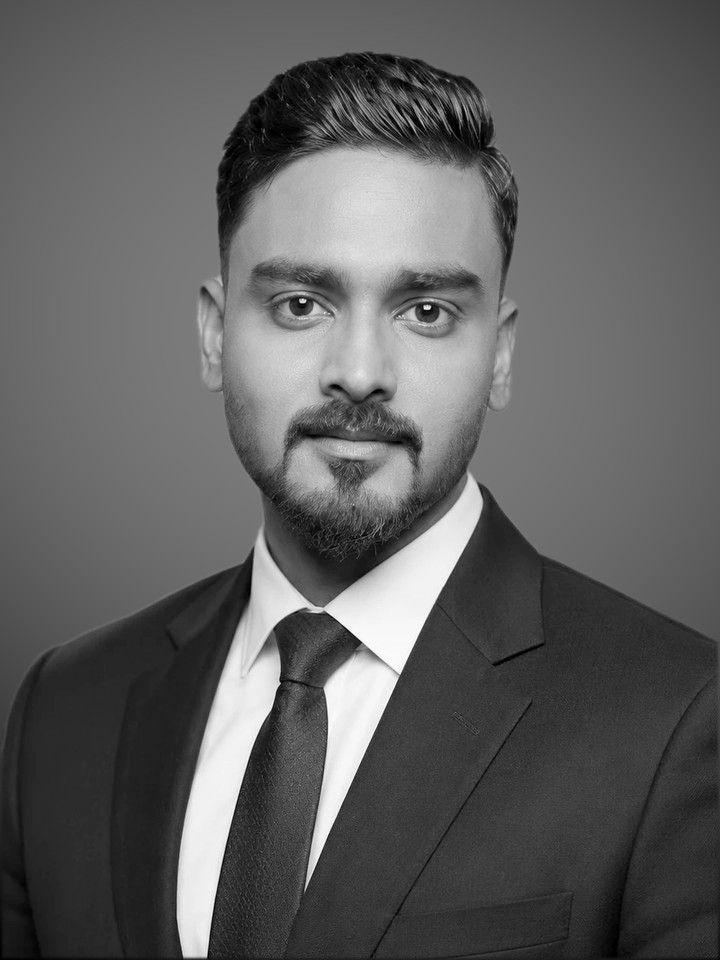
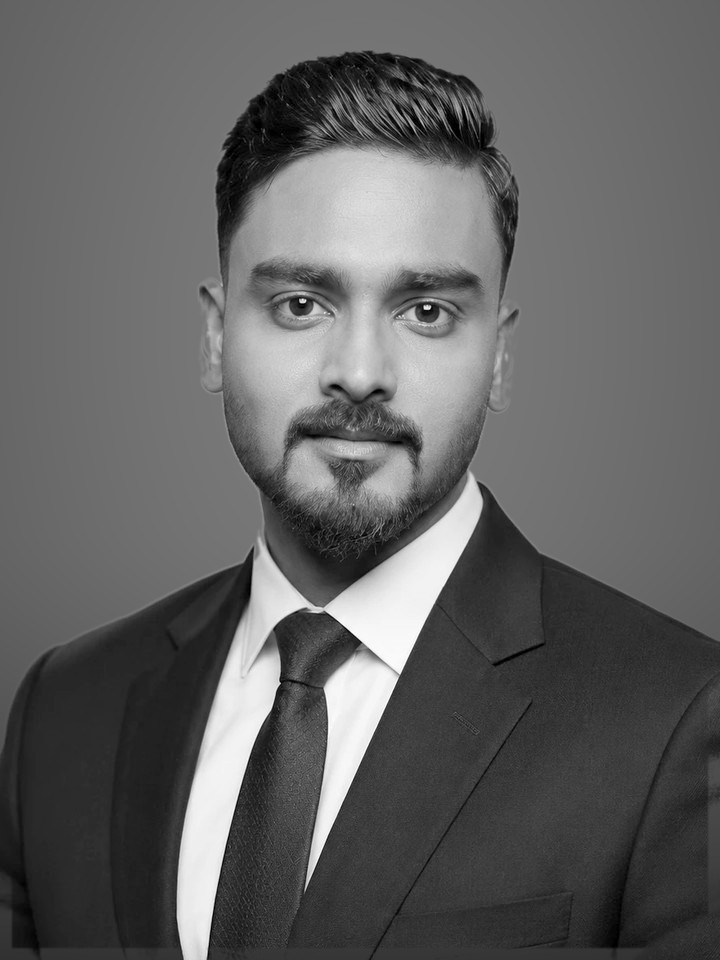
Take the halo off the portraits
Two cards showed it worst — Amit's and Sanjay's, where the head fills
most of the frame — a bright ring hugging the silhouette.

Two causes. The person mask runs a few pixels wide of the person, and on
a backdrop lit from behind those pixels are bright; composited as
subject they ring the cut-out. The edge is now refined against each
photograph's own background: fit it, and in a band either side of the
mask treat a pixel that still matches it as background. Hair is nowhere
near the backdrop's value, so it survives; the fringe does not.

And the backdrop itself was the shoot's own falloff, fitted. Its hotspot
is tight, and at these head sizes it sat directly behind the head, which
reads as a glow however clean the cut. It is written out now instead: a
broad centre, a gentle fall to the corners, the foot carried down for
the caption. Every portrait and the placeholder tile use it.

Rebuilt from the originals, not from the shipped files — this pass over
its own output would compound.

diff --git a/app/globals.css b/app/globals.css
@@ -2633,8 +2633,8 @@ html.is-locked body{overflow:hidden!important;height:100%!important;
    the studio backdrop the portraits were shot against, so the empty card sits
    in the row instead of glaring out of it. */
 .tr-init{position:absolute;inset:0;display:grid;place-items:center;
-  background:radial-gradient(115% 80% at 50% 33%,
-    #7f7f7f 0%,#646464 45%,#4c4c4c 72%,#101010 100%);
+  background:linear-gradient(to bottom,rgba(0,0,0,0) 55%,rgba(0,0,0,.45) 100%),
+    radial-gradient(112% 92% at 50% 34%,#7c7c7c 0%,#727272 40%,#676767 72%,#636363 100%);
   color:#C2C7CC;font-weight:300;font-size:2.4444rem;letter-spacing:.02em}
 .tr-shot img{object-fit:cover;filter:grayscale(1) contrast(1.04);
   transition:transform .6s var(--ease-out)}

diff --git a/scripts/portraits/ground.py b/scripts/portraits/ground.py
@@ -1,16 +1,24 @@
-"""Put an odd-one-out portrait on the set's own backdrop.
+"""Put a portrait on the set's one backdrop.
 
-Sumit was shot on a white sweep and Asif against a near-black wall; every other
-card is the same soft grey spotlight. Vision's person segmentation gives the
-silhouette (a threshold matte ate Asif's hair and glasses), and the subject is
-composited onto the fitted plate. The mask is pulled in a couple of pixels so no
-rim of the old backdrop survives at the edge.
+Vision's person segmentation gives the silhouette — a threshold matte ate Asif's
+hair and glasses, because his wall and his suit sit in the same values. The mask
+runs a few pixels wide of the person, though, and those pixels are the
+photograph's OWN background: composited as subject they leave a halo hugging the
+silhouette, bright on the shots that were lit from behind.
+
+So the edge is refined against the original: a quadratic is fitted to the
+photograph's own background, and in a band either side of the mask a pixel that
+still matches that background is treated as background. Hair reads as hair — it
+is nowhere near the backdrop's value — while the fringe drops out.
 """
 from PIL import Image, ImageFilter
 import numpy as np, subprocess, os, sys
 from scipy import ndimage
 D = os.path.dirname(os.path.abspath(__file__))
-from plate import surface
+from plate import surface, fit, plate_image
+
+BAND = 12      # px either side of the mask edge that get judged against the backdrop
+TOL = 16       # grey levels: below this a pixel is the backdrop, at twice it is the person
 
 def person_mask(path):
     png = f'{D}/.mask.png'
@@ -19,17 +27,32 @@ def person_mask(path):
         raise RuntimeError(f'no person found in {path}: {r.stdout}{r.stderr}')
     return np.asarray(Image.open(png).convert('L'), dtype=float) / 255
 
-def reground(path, out, erode=2, feather=1.2):
+def own_background(a, outside):
+    """Fit the photograph's own backdrop from the pixels well clear of the person."""
+    h, w = a.shape
+    ys, xs = np.mgrid[0:h, 0:w]
+    x, y = xs / w, ys / h
+    c = fit(x[outside], y[outside], a[outside])
+    return surface(c, w, h)
+
+def alpha_for(a, m, band=BAND, tol=TOL):
+    inner = ndimage.binary_erosion(m > 0.5, iterations=band)
+    outer = ndimage.binary_dilation(m > 0.5, iterations=band)
+    bg = own_background(a, ~outer)
+    edge = np.clip((np.abs(a - bg) - tol) / tol, 0, 1)
+    return np.where(inner, 1.0, np.where(outer, edge, 0.0))
+
+def reground(path, out, feather=1.0):
     a = np.asarray(Image.open(path).convert('L'), dtype=float)
-    m = person_mask(path)
-    m = ndimage.binary_erosion(m > 0.5, iterations=erode).astype(float)
-    m = np.asarray(Image.fromarray((m * 255).astype('uint8')).filter(
+    al = alpha_for(a, person_mask(path))
+    al = np.asarray(Image.fromarray((al * 255).astype('uint8')).filter(
         ImageFilter.GaussianBlur(feather)), dtype=float) / 255
-    plate = surface(np.load(f'{D}/plate.npy'), *a.shape[::-1])
-    res = a * m + plate * (1 - m)
+    plate = plate_image(*a.shape[::-1])
+    res = a * al + plate * (1 - al)
     Image.fromarray(np.clip(res, 0, 255).astype('uint8')).save(out, quality=90, optimize=True, progressive=True)
-    print(f'{os.path.basename(out):22} subject {m.mean()*100:.1f}% of frame')
+    print(f'{os.path.basename(out):24} subject {al.mean()*100:.1f}% of frame')
 
 if __name__ == '__main__':
     for who in sys.argv[1:]:
-        reground(f'{D}/out/{who}.jpg', f'{D}/out/{who}.jpg')
+        p = who if os.path.sep in who else f'{D}/out/{who}.jpg'
+        reground(p, p)

diff --git a/scripts/portraits/plate.py b/scripts/portraits/plate.py
@@ -1,5 +1,14 @@
-"""Fit the studio backdrop of the new shots as a smooth 2D surface, so the two
-odd portraits can be put on the same ground."""
+"""The set's one backdrop, and the fitting used to read a photograph's own.
+
+The backdrop the portraits are composited onto is written out here rather than
+fitted: the 2026 shoot's own falloff is steep, and at the head sizes these cards
+crop to, its hotspot sits right behind the head and reads as a halo. This is the
+same light, opened up — a broad centre, a gentle fall to the corners, and the
+bottom carried down for the caption to sit on.
+
+`fit`/`surface` stay: ground.py fits a quadratic to each PHOTOGRAPH's own
+background to decide what is backdrop at the silhouette's edge.
+"""
 from PIL import Image
 import numpy as np, os
 D = os.path.dirname(os.path.abspath(__file__))
@@ -25,15 +34,33 @@ def surface(c, w, h):
     x, y = xs / w, ys / h
     return c[0] + c[1] * x + c[2] * y + c[3] * x * x + c[4] * x * y + c[5] * y * y
 
+# centre, spread and depth of the backdrop, in fractions of the frame
+CENTRE = (0.50, 0.34)
+SIGMA = (0.46, 0.52)
+BASE, AMP = 78.0, 46.0
+FOOT_FROM, FOOT_DEPTH, FOOT_CURVE = 0.55, 0.45, 1.6
+
+def plate_image(w, h):
+    ys, xs = np.mgrid[0:h, 0:w]
+    x, y = xs / w, ys / h
+    cx, cy = CENTRE; sx, sy = SIGMA
+    v = BASE + AMP * np.exp(-(((x - cx) ** 2) / (2 * sx ** 2) + ((y - cy) ** 2) / (2 * sy ** 2)))
+    return v * (1 - FOOT_DEPTH * np.clip((y - FOOT_FROM) / (1 - FOOT_FROM), 0, 1) ** FOOT_CURVE)
+
 if __name__ == '__main__':
+    # Print and draw the backdrop the portraits are composited onto, and, for
+    # comparison, the 2026 shoot's own falloff fitted from three of its frames.
+    s = plate_image(720, 960)
+    at = lambda yy, xx: round(s[int(yy * 959), int(xx * 719)])
+    print('backdrop  behind head', at(.34, .5), ' mid-sides', at(.5, .02), at(.5, .98),
+          ' top corners', at(.02, .02), at(.02, .98), ' foot', at(.99, .5))
+    Image.fromarray(np.clip(s, 0, 255).astype('uint8')).save(f'{D}/plate.png')
+
     X, Y, V = [], [], []
-    for n in ('saurabh-aggarwal', 'amit-garg', 'dhawal-parvatikar'):   # one backdrop, three shots
+    for n in ('saurabh-aggarwal', 'amit-garg', 'dhawal-parvatikar'):
         x, y, v = bg_samples(Image.open(f'{D}/out/{n}.jpg'))
         X.append(x); Y.append(y); V.append(v)
-    c = fit(np.concatenate(X), np.concatenate(Y), np.concatenate(V))
-    np.save(f'{D}/plate.npy', c)
-    s = surface(c, 720, 960)
-    print('coeffs', np.round(c, 1))
-    print('plate corners TL/TR/BL/BR', [round(s[int(yy*959), int(xx*719)]) for yy, xx in ((.02,.02),(.02,.98),(.98,.02),(.98,.98))])
-    print('plate mid-sides L/R, behind head', round(s[480, 20]), round(s[480, 700]), round(s[300, 360]))
-    Image.fromarray(np.clip(s, 0, 255).astype('uint8')).save(f'{D}/plate.png')
+    t = surface(fit(np.concatenate(X), np.concatenate(Y), np.concatenate(V)), 720, 960)
+    at = lambda yy, xx: round(t[int(yy * 959), int(xx * 719)])
+    print('the shoot behind head', at(.34, .5), ' mid-sides', at(.5, .02), at(.5, .98),
+          ' top corners', at(.02, .02), at(.02, .98), ' foot', at(.99, .5))

diff --git a/scripts/portraits/build.py b/scripts/portraits/build.py
@@ -11,18 +11,17 @@ REPO = os.path.dirname(os.path.dirname(os.path.dirname(os.path.abspath(__file__)
 OUT = os.path.dirname(os.path.abspath(__file__)) + '/out'
 os.makedirs(OUT, exist_ok=True)
 
-# person -> source file, as of the last run. The two REPO paths were the
-# pre-2026 originals; those files have since been replaced by this script's own
-# output, so re-running against them would process an already-processed image —
-# take the originals out of git history (before the "one set" commit) instead.
+# person -> the ORIGINAL photograph, never this script's own output. The
+# pre-2026 originals (Asif and the two founders) are in git history, before the
+# "Put every portrait on one backdrop" commit.
 PEOPLE = [
-    ('sumit-chatterjee',  f'{SRC}/18.jpg'),
-    ('ramesh-yadav',      f'{SRC}/15.webp'),
-    ('amit-garg',         f'{SRC}/14.webp'),
-    ('dhawal-parvatikar', f'{SRC}/16.webp'),
-    ('asif-masani',       f'{REPO}/public/team/asif-masani.jpg'),
-    ('sanjay-rikhy',      f'{SRC}/17.webp'),
-    ('saurabh-aggarwal',  f'{SRC}/13.webp'),
+    ('sumit-chatterjee',  f'{SRC}/sumit-chatterjee.jpg'),
+    ('ramesh-yadav',      f'{SRC}/ramesh-yadav.webp'),
+    ('amit-garg',         f'{SRC}/amit-garg.webp'),
+    ('dhawal-parvatikar', f'{SRC}/dhawal-parvatikar.webp'),
+    ('asif-masani',       f'{SRC}/asif-masani.jpg'),
+    ('sanjay-rikhy',      f'{SRC}/sanjay-rikhy.webp'),
+    ('saurabh-aggarwal',  f'{SRC}/saurabh-aggarwal.webp'),
 ]
 FACE_FRAC = 0.34   # face-box height as a share of the frame
 FACE_Y    = 0.40   # where the face-box centre sits down the frame

diff --git a/scripts/portraits/README.md b/scripts/portraits/README.md
@@ -7,8 +7,8 @@ and one studio backdrop.
 ```
 swiftc -O faces.swift -o faces          # Vision: face boxes, for the crop
 swiftc -O segment.swift -o segment      # Vision: person mask, for the backdrop
-python3 build.py                        # crop + greyscale + levels -> out/
-python3 ground.py <name> [<name>…]      # put a portrait on the fitted backdrop
+PORTRAIT_SRC=<originals> python3 build.py     # crop + greyscale + levels -> out/
+python3 harmony.py out/*.jpg                  # one exposure, then onto the backdrop
 ```
 
 `build.py` holds the person → source-file list and the two numbers that set the
@@ -16,15 +16,26 @@ framing: `FACE_FRAC` (the face box as a share of the frame) and `FACE_Y` (where
 it sits down the frame). A source tighter than `FACE_FRAC` is left at its own
 framing — the crop can only ever go in, never out.
 
-`plate.npy` is the backdrop: a quadratic fitted to the background of the 2026
-shoot (`plate.py` refits it). `ground.py` is for the odd ones out — Sumit was
-shot on a white sweep, Asif against a near-black wall. A threshold matte ate
-Asif's hair and glasses, so the silhouette comes from Vision's person
-segmentation instead.
+`plate.py` holds the backdrop every portrait is composited onto. It is written
+out, not fitted: the shoot's own falloff is steep, and at the head sizes these
+cards crop to its hotspot sits right behind the head and reads as a halo. Run
+`python3 plate.py` to print both and draw the one in use.
+
+`ground.py` does the compositing. Vision's person segmentation gives the
+silhouette — a threshold matte ate Asif's hair and glasses, since his wall and
+his suit sit in the same values — and the edge is then refined against the
+photograph's own background, fitted as a quadratic: a pixel near the edge that
+still matches that background is background, however the mask called it. Without
+that step the mask carries a few pixels of the original backdrop and leaves a
+halo hugging the silhouette.
+
+`harmony.py` is the exposure pass: a gamma that moves each face's median toward
+the set's, clamped, so a dark frame moves most of the way and never all of it.
 
 The `.tr-init` placeholder tile in globals.css is a CSS approximation of the
 same plate, so a card with no photograph sits in the row quietly.
 
-New photograph: drop it in the list in `build.py`, run the two steps, copy the
-result into `public/team/`. Check the result at 720×960 before shipping it —
-segmentation is good, not perfect.
+New photograph: put the original beside the others, add it to the list in
+`build.py`, run the two steps, copy the result into `public/team/`. Always work
+from originals — running this over its own output compounds every pass. Check
+the result at 720×960 before shipping it: segmentation is good, not perfect.
